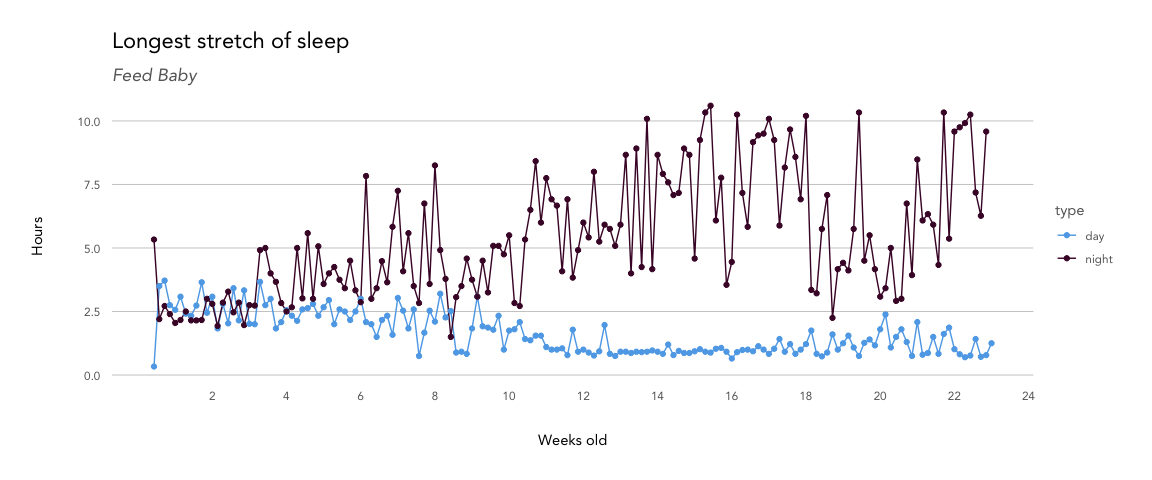
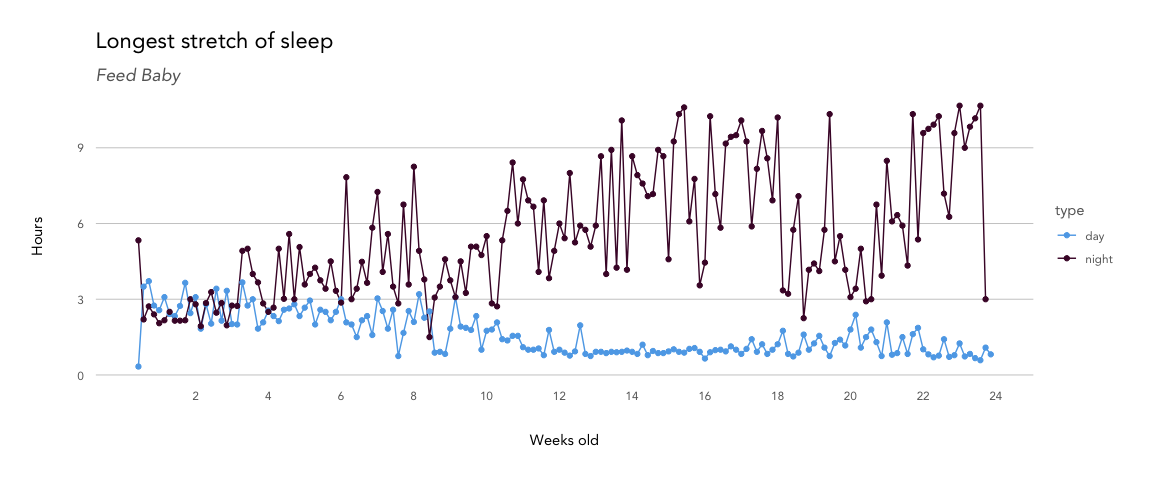
update thru 24 wk

diff --git a/sleep/baby_sleep.md b/sleep/baby_sleep.md
@@ -22,7 +22,12 @@ to track diaper changes, feeds, sleep, weight, and so on, and we
 immediately traded in the pen + paper tracker provided by the hospital
 for a digital tracker. As a data nerd, I also assumed I’d be able to use
 the meticulously tracked data to better understand my baby and maybe
-even figure out how to make her sleep longer (LOL).
+even figure out how to make her sleep longer (LOL). *Narrator: she did
+not.*
+
+TL;DR: Time is the biggest predictor for improved baby sleep, though
+development isn’t linear. Type A parents: you just have to ride this one
+out (or get lucky with a naturally great sleeper).
 
 ``` r
 knitr::include_graphics("images/feedbaby_screenshot.png")
@@ -38,7 +43,7 @@ The app also has a feature that lets you download the data as several
 str(feedbaby_raw)
 ```
 
-    ## 'data.frame':    1012 obs. of  5 variables:
+    ## 'data.frame':    1046 obs. of  5 variables:
     ##  $ id                            : int  2 1 3 4 5 6 7 8 9 10 ...
     ##  $ Start.Time                    : chr  "11:20PM 01-24-2020" "1:40AM 01-25-2020" "8:30AM 01-25-2020" "3:25PM 01-25-2020" ...
     ##  $ End.Time                      : chr  "12:08AM 01-25-2020" "7:20AM 01-25-2020" "12:00PM 01-25-2020" "6:42PM 01-25-2020" ...
@@ -49,7 +54,7 @@ str(feedbaby_raw)
 
 First, I split sessions into individual days (e.g. sessions crossing
 over midnight would become one ending at 11:59 PM and a second one
-starting at 12:00 AM). For cleaner visualiztion, I then shifted the
+starting at 12:00 AM). For cleaner visualization, I then shifted the
 times to allow for a plot with the x axis beginning at 7 AM rather than
 12 AM to more clearly delineate day and night sleeps.
 
@@ -134,7 +139,7 @@ feedbaby_sleep_processed <- preprocess_sleep(feedbaby_sleep)
 str(feedbaby_sleep_processed)
 ```
 
-    ## 'data.frame':    1057 obs. of  15 variables:
+    ## 'data.frame':    1091 obs. of  15 variables:
     ##  $ start_datetime    : POSIXct, format: "2020-01-24 23:20:00" "2020-01-25 01:40:00" ...
     ##  $ end_datetime      : POSIXct, format: "2020-01-25 00:08:00" "2020-01-25 07:20:00" ...
     ##  $ start_date        : Date, format: "2020-01-24" "2020-01-25" ...
@@ -155,15 +160,16 @@ str(feedbaby_sleep_processed)
 
 Some important details:
 
-  - I am very lucky to be home with my daughter full time for 19 weeks.
+  - I was very lucky to be home with my daughter full time for 19 weeks.
     Because of COVID-19, we started limiting social visits, errands, and
     basically most leaving the house except for doctor appointments when
     she was 8 weeks old. When she was 10 weeks old, a stay-at-home order
-    was enacted in Minnesota, and is still in effect. Because we spent
-    99% of our time at home and have no other children, we were able to
-    let her dictate when to eat, nap, play, etc., rather than trying to
-    conform her to our schedule, so her sleep is likely the best it
-    could possibly be for her\!
+    was enacted in Minnesota. Because we spent 99% of our time at home
+    and have no other children, we were able to let her dictate when to
+    eat, nap, play, etc., rather than trying to conform her to our
+    schedule, so her sleep is likely the best it could possibly be for
+    her\! The order ended when she was 18 weeks old, but we’ve opted to
+    keep her home outside of daycare and the occasional family visit.  
   - She is breastfed so she needs to eat more frequently than a formula
     or combination-fed baby.  
   - We didn’t start tracking reliably until we came home from the
@@ -179,18 +185,20 @@ feedbaby_sleep_processed %>%
                    y = weeks_old, 
                    yend = weeks_old,
                    color = type), 
-               size = 3) +
+               size = 2) +
   geom_rect(aes(xmin = 7, xmax = 31, ymin = 0, ymax = 3/7), fill = 'grey60') +
   scale_x_continuous(breaks = c(7,13,19,25,31), 
                      labels = c('7AM', '1PM', '7PM', '1AM', '7AM')) +
   scale_y_continuous(breaks = c(2,4,6,8,10,12,14,16,18,20,22,24)) +
+  coord_flip() +
   labs(title = 'Newborn sleep', 
        subtitle = 'Tracked using the Feed Baby app',
        x = 'Time', 
        y = 'Weeks old') +
   scale_color_kp(palette = "cool", reverse = TRUE) +
   theme(panel.grid.major.x = element_line(color="grey80"),
-        panel.grid.major.y = element_blank())
+        panel.grid.major.y = element_blank(),
+        legend.position = 'top') 
 ```
 
 ![](baby_sleep_files/figure-gfm/all_sleeps-1.png)<!-- -->
@@ -291,12 +299,12 @@ I was excited to see that you can access your Snoo data using the
 str(snoo_raw)
 ```
 
-    ## 'data.frame':    680 obs. of  5 variables:
-    ##  $ start_time: chr  "2020-02-23T21:20:30" "2020-02-24T01:12:02" "2020-02-24T05:37:11" "2020-02-24T13:33:34" ...
-    ##  $ end_time  : chr  "2020-02-24T00:24:23" "2020-02-24T04:11:42" "2020-02-24T05:43:02" "2020-02-24T16:24:33" ...
-    ##  $ duration  : int  11033 10780 351 10259 18219 2892 12759 13210 7563 10653 ...
-    ##  $ asleep    : int  10932 10780 351 9227 18219 2407 12244 13161 7563 10653 ...
-    ##  $ soothing  : int  101 0 0 1032 0 485 515 49 0 0 ...
+    ## 'data.frame':    694 obs. of  5 variables:
+    ##  $ start_time: chr  "2020-02-15T16:44:48" "2020-02-15T17:00:42" "2020-02-17T18:17:47" "2020-02-23T03:47:14" ...
+    ##  $ end_time  : chr  "2020-02-15T16:44:49" "2020-02-15T17:16:21" "2020-02-17T18:36:08" "2020-02-23T06:50:24" ...
+    ##  $ duration  : int  1 939 1101 10990 11033 10780 351 10259 18219 2892 ...
+    ##  $ asleep    : int  1 187 440 10990 10932 10780 351 9227 18219 2407 ...
+    ##  $ soothing  : int  0 752 661 0 101 0 0 1032 0 485 ...
 
 While I credit the constantly gentle motion of the Snoo for helping her
 sleep longer, the higher-motion, higher-volume white-noise “soothing”
@@ -328,22 +336,22 @@ snoo_sleep_processed <- preprocess_sleep(snoo_sleep)
 str(snoo_sleep_processed)
 ```
 
-    ## 'data.frame':    706 obs. of  15 variables:
-    ##  $ start_datetime    : POSIXct, format: "2020-02-23 21:20:30" "2020-02-24 01:12:02" ...
-    ##  $ end_datetime      : POSIXct, format: "2020-02-24 00:24:23" "2020-02-24 04:11:42" ...
-    ##  $ start_date        : Date, format: "2020-02-23" "2020-02-24" ...
-    ##  $ end_date          : Date, format: "2020-02-24" "2020-02-24" ...
-    ##  $ start_time_numeric: num  21.33 1.2 5.62 13.55 23.6 ...
-    ##  $ end_time_numeric  : num  0.4 4.18 5.72 16.4 4.67 ...
+    ## 'data.frame':    720 obs. of  15 variables:
+    ##  $ start_datetime    : POSIXct, format: "2020-02-15 16:44:48" "2020-02-15 17:00:42" ...
+    ##  $ end_datetime      : POSIXct, format: "2020-02-15 16:44:49" "2020-02-15 17:16:21" ...
+    ##  $ start_date        : Date, format: "2020-02-15" "2020-02-15" ...
+    ##  $ end_date          : Date, format: "2020-02-15" "2020-02-15" ...
+    ##  $ start_time_numeric: num  16.73 17 18.28 3.78 21.33 ...
+    ##  $ end_time_numeric  : num  16.73 17.27 18.6 6.83 0.4 ...
     ##  $ location          : chr  "snoo" "snoo" "snoo" "snoo" ...
-    ##  $ start_time_shift  : num  21.3 25.2 29.6 13.6 23.6 ...
-    ##  $ end_time_shift    : num  24.4 28.2 29.7 16.4 28.7 ...
-    ##  $ start_date_shift  : Date, format: "2020-02-23" "2020-02-23" ...
-    ##  $ end_date_shift    : Date, format: "2020-02-23" "2020-02-23" ...
+    ##  $ start_time_shift  : num  16.7 17 18.3 27.8 21.3 ...
+    ##  $ end_time_shift    : num  16.7 17.3 18.6 30.8 24.4 ...
+    ##  $ start_date_shift  : Date, format: "2020-02-15" "2020-02-15" ...
+    ##  $ end_date_shift    : Date, format: "2020-02-15" "2020-02-15" ...
     ##  $ split             : chr  NA NA NA NA ...
-    ##  $ type              : chr  "night" "night" "night" "day" ...
-    ##  $ days_old          : num  33 33 33 34 34 34 35 35 35 35 ...
-    ##  $ weeks_old         : num  4.71 4.71 4.71 4.86 4.86 ...
+    ##  $ type              : chr  "day" "day" "day" "night" ...
+    ##  $ days_old          : num  25 25 27 32 33 33 33 34 34 34 ...
+    ##  $ weeks_old         : num  3.57 3.57 3.86 4.57 4.71 ...
 
 ``` r
 feedbaby_sleep_processed %>%
@@ -354,18 +362,21 @@ feedbaby_sleep_processed %>%
                    y = weeks_old, 
                    yend = weeks_old,
                    color = location), 
-               size = 3) +
+               size = 2) +
   geom_rect(aes(xmin = 7, xmax = 31, ymin = 0, ymax = 3/7), fill = 'grey60') +
   scale_x_continuous(breaks = c(7,13,19,25,31), 
                      labels = c('7AM', '1PM', '7PM', '1AM', '7AM')) +
   scale_y_continuous(breaks = c(2,4,6,8,10,12,14,16,18,20,22,24)) +
+  coord_flip() +
   labs(title = 'Newborn sleep', 
        subtitle = 'Began using the Snoo for night sleep ~5 weeks; naps varied',
        x = 'Time', 
        y = 'Weeks old') +
   scale_color_manual(values = c('grey80', '#2F7C9F')) +
   theme(panel.grid.major.x = element_line(color="grey80"),
-        panel.grid.major.y = element_blank())
+        panel.grid.major.y = element_blank(),
+        axis.text.x = element_text(margin = margin(0,10,0,0)),
+        legend.position = 'top')
 ```
 
 ![](baby_sleep_files/figure-gfm/snoo_sleeps-1.png)<!-- -->
@@ -381,9 +392,9 @@ moving them into the Snoo, but didn’t get successful until week 12 or
 so.
 
 She started daycare at week 19, so midday naps happened there and not in
-the Snoo. We often had her take her first nap at home (my husband
-typically works second shift and can do daycare drop-off around 9) and
-nearly always put her down for a short catnap after I picked her up
+the Snoo. We often had her take her first nap at home (my partner
+typically works second shift and can do daycare drop-off a little later)
+and nearly always put her down for a short catnap after I picked her up
 around 4:30.
 
 There is some variance between the Feed Baby and Snoo sleep sessions
